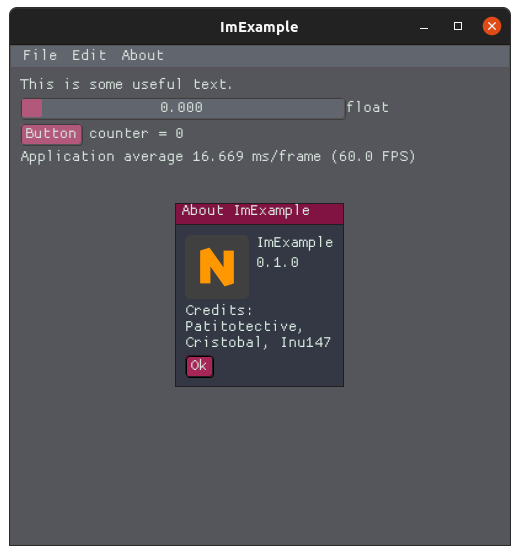
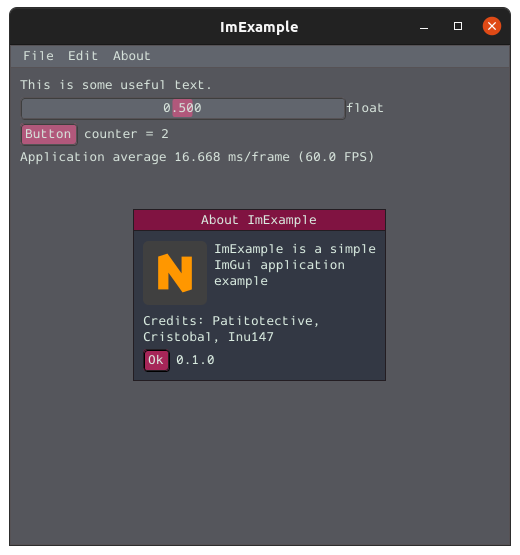
Added AppImage support (with resources) Added resources for nimble binary package Added `comment` key in config file Improved README Renamed `commons.nim` to `utils.nim`

diff --git a/README.md b/README.md
@@ -1,33 +1,46 @@
 # ImTemplate
-Template for making a single-windowed ImGui application in Nim.
+Template for making a single-windowed (or not) ImGui application in Nim.
 
 ![Main window](https://github.com/Patitotective/ImTemplate/blob/main/screenshots/main.png)
 
 ## Structure
-- `main.nim`: Application logic.
+- `README.md`: Project's description (in markdown).
+- `main.nim`: Application's logic.
+- `config.nims`: Nim compile configuration.
+- `ImExample.nimble`: [Nimble file](https://github.com/nim-lang/nimble#creating-packages).
+- `LICENSE`: Project's license.
+- `nakefile.md`: Used to build an AppImage (see [Building](#building)).
+- `config.niprefs`: Application's configuration (see [Config](#config)).
 - `assets`: 
-	- The application icon in `.png` and `.svg`
-	- Various fonts so you can choose the one you like the most.
+	- `icon.png`, `icon.svg`: Application's icon.
+	- `style.niprefs`: Application's style (using https://github.com/Patitotective/ImStyle).
+	- `Cousine-Regular.ttf`, `DroidSans.ttf`, `Karla-Regular.ttf`, `ProggyClean.ttf`, `Roboto-Regular.ttf`, `ProggyVector Regular.ttf`: Various fonts so you can choose the one you like the most.
 - `src`:
-	- `config.niprefs`: Application configuration (see the next section).
-	- `style.niprefs`: Application style (using https://github.com/Patitotective/ImStyle).
-	- `common.nim`: Simple procedures or types used by other modules.
+	- `utils.nim`: Anything used by more than one module.
 	- `prefsmodal.nim`: Create the preferences modal (called in `main.nim`)
 
+(`.gitignore` and `screenshots/` are not relevant)
+
 ## Config
-Config about the application so it doesn't need to be compiled again. It is stored using [niprefs](https://patitotective.github.io/niprefs/).  
-It looks like:
+Config about the application so it doesn't need to be compiled again. It is stored using [niprefs](https://patitotective.github.io/niprefs/):
 ```nim
 # App
 name="ImExample"
+comment="ImExample is a simple ImGui application example"
 version="0.1.0"
 website="https://github.com/Patitotective/ImTemplate"
-authors=["Patitotective", "Cristobal", "Andoni"]
+authors=["Patitotective", "Cristobal", "Inu147"]
 
-prefsPath="prefs.niprefs"
-stylePath="src/style.niprefs"
+# AppImage
+outDir="build"
+resourcesDir="data"
+categories=["Utility"]
+
+prefsPath="ImExample.niprefs"
+stylePath="assets/style.niprefs"
 iconPath="assets/icon.png"
-fontPath="assets/ProggyClean.ttf" # Other options are Roboto-Regular.ttf, DroidSans.ttf, Cousine-Regular.ttf, NotoSans-Regular.ttf or Karla-Regular.ttf
+svgIconPath="assets/icon.svg"
+fontPath="assets/ProggyVector Regular.ttf" # Other options are Roboto-Regular.ttf, DroidSans.ttf, Cousine-Regular.ttf, NotoSans-Regular.ttf, ProggyClean.ttf or Karla-Regular.ttf
 fontSize=16f
 
 # Window
@@ -49,12 +62,19 @@ https://github.com/Patitotective/ImTemplate/blob/main/src/config.niprefs
 Using the information from the config file, ImTemplate creates a simple about modal.
 ![About modal](https://github.com/Patitotective/ImTemplate/blob/main/screenshots/aboutmodal.png)
 
-Explanation:
-- `name`: Used for the title and about modal.
-- `version`: Used for the about modal.
+### Keys Explanation
+- `name`: Application's name.
+- `comment`: Application's description.
+- `version`: Application's version.
 - `website`: A link where you can find more information about the app.
 - `authors`: A sequence of strings to display in the about modal.
 
+(See [AppImage](#appimage-linux))
+- `outDir`: AppImage's output directory.
+- `resourcesDir`: Directory inside `AppDir` to store the resources in.
+- `categories`: Sequence of [registered categories](https://specifications.freedesktop.org/menu-spec/latest/apa.html).
+
+(Paths)
 - `prefsPath`: The path to save the (user) prefs file.
 - `stylePath`: The path of the application style (using https://github.com/Patitotective/ImStyle).
 - `iconPath`: The path of the application icon.
@@ -62,20 +82,20 @@ Explanation:
 - `fontSize`: The (float) size of the font.
 
 - `minSize`: Window's minimum size.
-- `settings`: ...
+- `settings`: See [`settings`](#settings).
 
 ### `settings`
-Define the preferences the user can modify from the preferences window (which will be saved at `prefsPath`).
+Define the preferences the user can modify from the preferences window (preferences that will be saved at `config["prefsPath"]`).
 ![Preferences modal](https://github.com/Patitotective/ImTemplate/blob/main/screenshots/prefsmodal.png)
 
-All the `settings` children keys will get stored at `prefsPath` except the ones of type `Section`.  
-Example:
-- `input`: This will be saved at `prefsPath` as a key.
-- `type`: See [SettingTypes](https://github.com/Patitotective/ImTemplate/blob/main/src/common.nim#L22).
+All the `settings` children keys will get stored at `config["prefsPath"]` with [niprefs](https://patitotective.github.io/niprefs/) (`input` in this example).
+Depending on each `type`, required keys may change, so go check [config.niprefs](https://github.com/Patitotective/ImTemplate/blob/main/src/config.niprefs#L24) to see which keys which types require.  
+In the case of `input`, these are the required keys.
+- `type`: See [SettingTypes](https://github.com/Patitotective/ImTemplate/blob/main/src/utils.nim#L22).
 - `default`: Default value.
 - `max`: Max buffer length (Not available for all types).
-- `flags`: Integer, string or sequence with the widget flags.
-- `help`: If passed, display a help marker with this message.
+- `flags`: Integer, string or sequence with the widget flags (https://nimgl.dev/docs/imgui.html#ImGuiInputTextFlags).
+- `help`: Display a help marker with this message. (Optional)
 
 #### Setting types
 - `Input`: Input text.
@@ -95,6 +115,7 @@ Example:
 Section types are useful to group similar settings.  
 It fits the settings at `content` inside a [collapsing header](https://nimgl.dev/docs/imgui.html#igCollapsingHeader%2Ccstring%2CImGuiTreeNodeFlags).
 ```nim
+...
 settings=>
   colors=>
     type="section"
@@ -110,12 +131,55 @@ settings=>
         flags="None" # See https://nimgl.dev/docs/imgui.html#ImGuiColorEditFlags
 ```
 
-Take a look at [src/config.niprefs](https://github.com/Patitotective/ImTemplate/blob/main/src/config.niprefs#L17).
+Take a look at [`config.niprefs`](https://github.com/Patitotective/ImTemplate/blob/main/src/config.niprefs#L24).
 
 ## Building
-Because of ImGui and Nim, build your application is really easy.  
-Just do `nimble build` and it will check all your app dependencies defined at `ImExample.nimble` and generate a binary (`ImExample`).  
-To distribute it, you can [add it to nimble packages list](https://github.com/nim-lang/packages), host it on git cloud repository so people can install it with nimble or you could try and use some other tool (like [Snap](https://snapcraft.io/), [Flatpak](https://flatpak.org/) or [AppImage](https://appimage.org/)).
+### Nimble
+You can publish your application as a [binary package](https://github.com/nim-lang/nimble#binary-packages) with nimble.  
+Or you can just upload it to GitHub (or similar).  
+(e.g.: To install ImExample you can `nimble install https://github.com/Patitotective/ImTemplate`)
+
+#### Resources
+To include the application resources in the binary package, you need to specify them in the `.nimble` file:
+```nim
+# Package
+
+...
+installFiles = @["config.niprefs", "assets/icon.png", "assets/style.niprefs", "assets/ProggyVector Regular.ttf"]
+
+...
+```
+
+### AppImage (Linux)
+You can also build your app as an AppImage, you only need to follow these steps:
+1. Install [appimagetool](https://appimage.github.io/appimagetool/) (For Debian/Ubuntu/Arch)
+```sh
+sudo wget https://github.com/AppImage/AppImageKit/releases/download/continuous/appimagetool-x86_64.AppImage -O /usr/local/bin/appimagetool
+sudo chmod +x /usr/local/bin/appimagetool
+```
+2. (Install `nimble install nake` and) run `nake build` (or to build and run it use `nake run`)
+
+After that a new `ImExample-x86_64.AppImage` (architecture may change) file should be created inside `config["outDir"]`.
+
+#### Resources
+If you build your application as an AppImage you may want to have some resources like the icon or the font.  
+These are defined in the `nakefile.nim` module, the default resources are:
+```nim
+resources = [
+  configPath, 
+  config["iconPath"].getString(), 
+  config["stylePath"].getString(), 
+  config["fontPath"].getString()
+]
+```
+These resources are going to be copied from their path to `config["resourcesDir"]` (by default `data`).  
+Then in `main.nim` every time you need to access to some file you call `path.getPath()`.  
+It's (only `when defined(appImage)`) going to look for that path inside the `data` directory inside `APPDIR` environment variable.
+
+(You could also try [Snap](https://snapcraft.io/) or [Flatpak](https://flatpak.org/) and if you get it working please let me know).
+
+## Examples
+- [ImPasswordGen](https://github.com/Patitotective/ImPasswordGen)
 
 ## About
 - GitHub: https://github.com/Patitotective/ImTemplate.
@@ -123,5 +187,5 @@ To distribute it, you can [add it to nimble packages list](https://github.com/ni
 
 Contact me:
 - Discord: **Patitotective#0127**.
-- Tiwtter: [@patitotective](https://twitter.com/patitotective).
+- Twitter: [@patitotective](https://twitter.com/patitotective).
 - Email: **cristobalriaga@gmail.com**.
